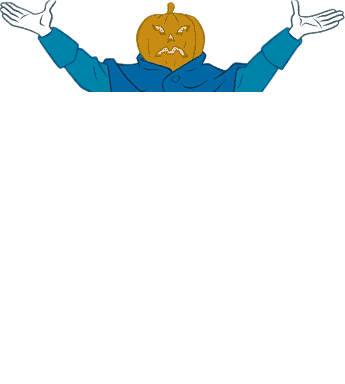
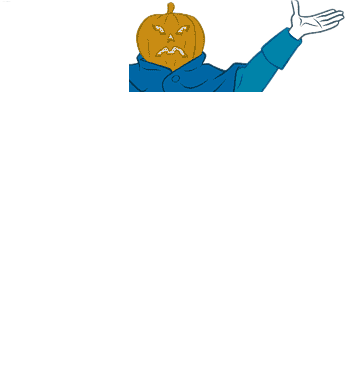
Image no longer breaking

Changed region(s): [[0.0, 0.0, 0.3768, 0.25]]

diff --git a/js/main.js b/js/main.js
@@ -72,12 +72,12 @@ function handleClick(event) {
 
 function  checkGameStatus() {
     if (wrongLetters.length < tries && wrongLetters.length > 0) {
-        messageEl.innerText = "Zoinks Try Again";
+        messageEl.innerText = "Zoinks!Try Again";
         imgEl.src = `./img/pumpkin${wrongLetters.length}.png`;
         imgEl.style.visibility = "visible";
     } else if (wrongLetters.length === tries) {
         messageEl.innerText = `Game Over! The word was ${correctLetters.join("")}` ;
-        imgEl.src = `./img/pumpkin5.png`;
+        imgEl.src = `./img/pumpkin6.png`;
     } else if (!currentWord.includes("_")) {
         messageEl.innerText = "You've won!";
     }

diff --git a/index.html b/index.html
@@ -12,7 +12,7 @@
 <header>Scooby-Doo</header>
     <h1 id="status"></h1>
 <section id="image">
-    <img src="./img/pumpkin5.png" alt="Scooby Doo" class="pumpkin">
+    <img src="./img/pumpkin0.png" alt="Scooby Doo" class="pumpkin">
 </section>
 <div>
     <button id="hint">Hint</button>
